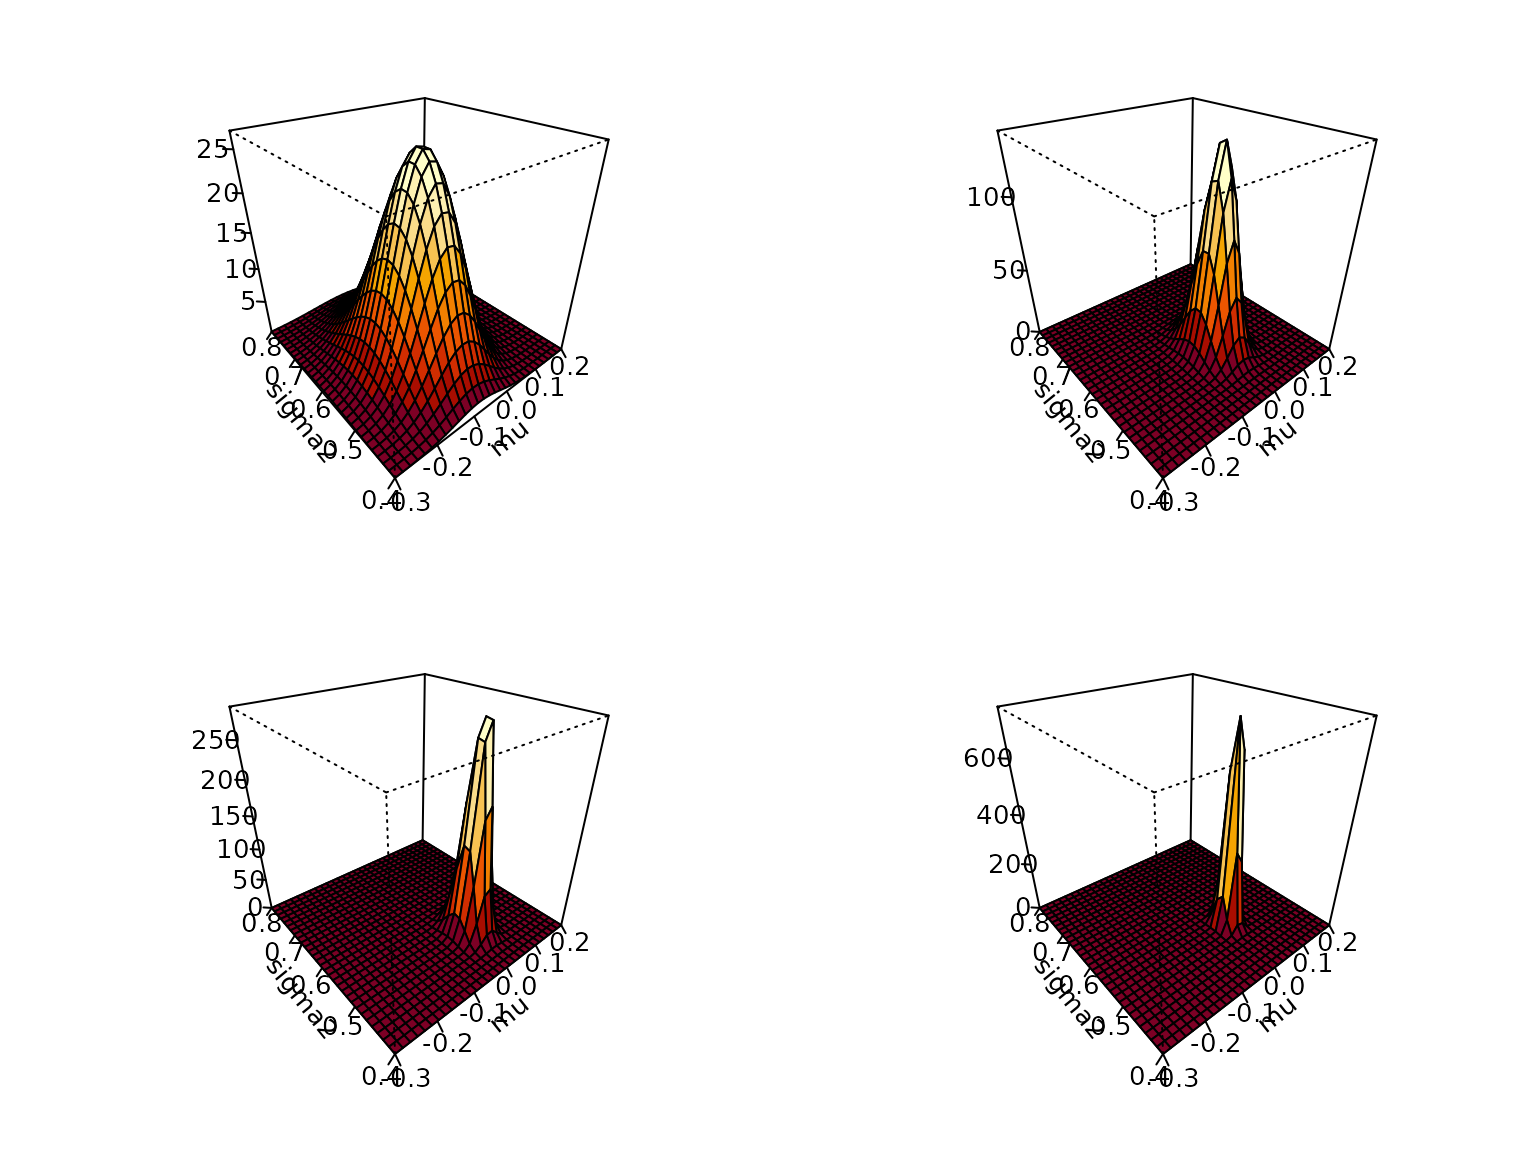
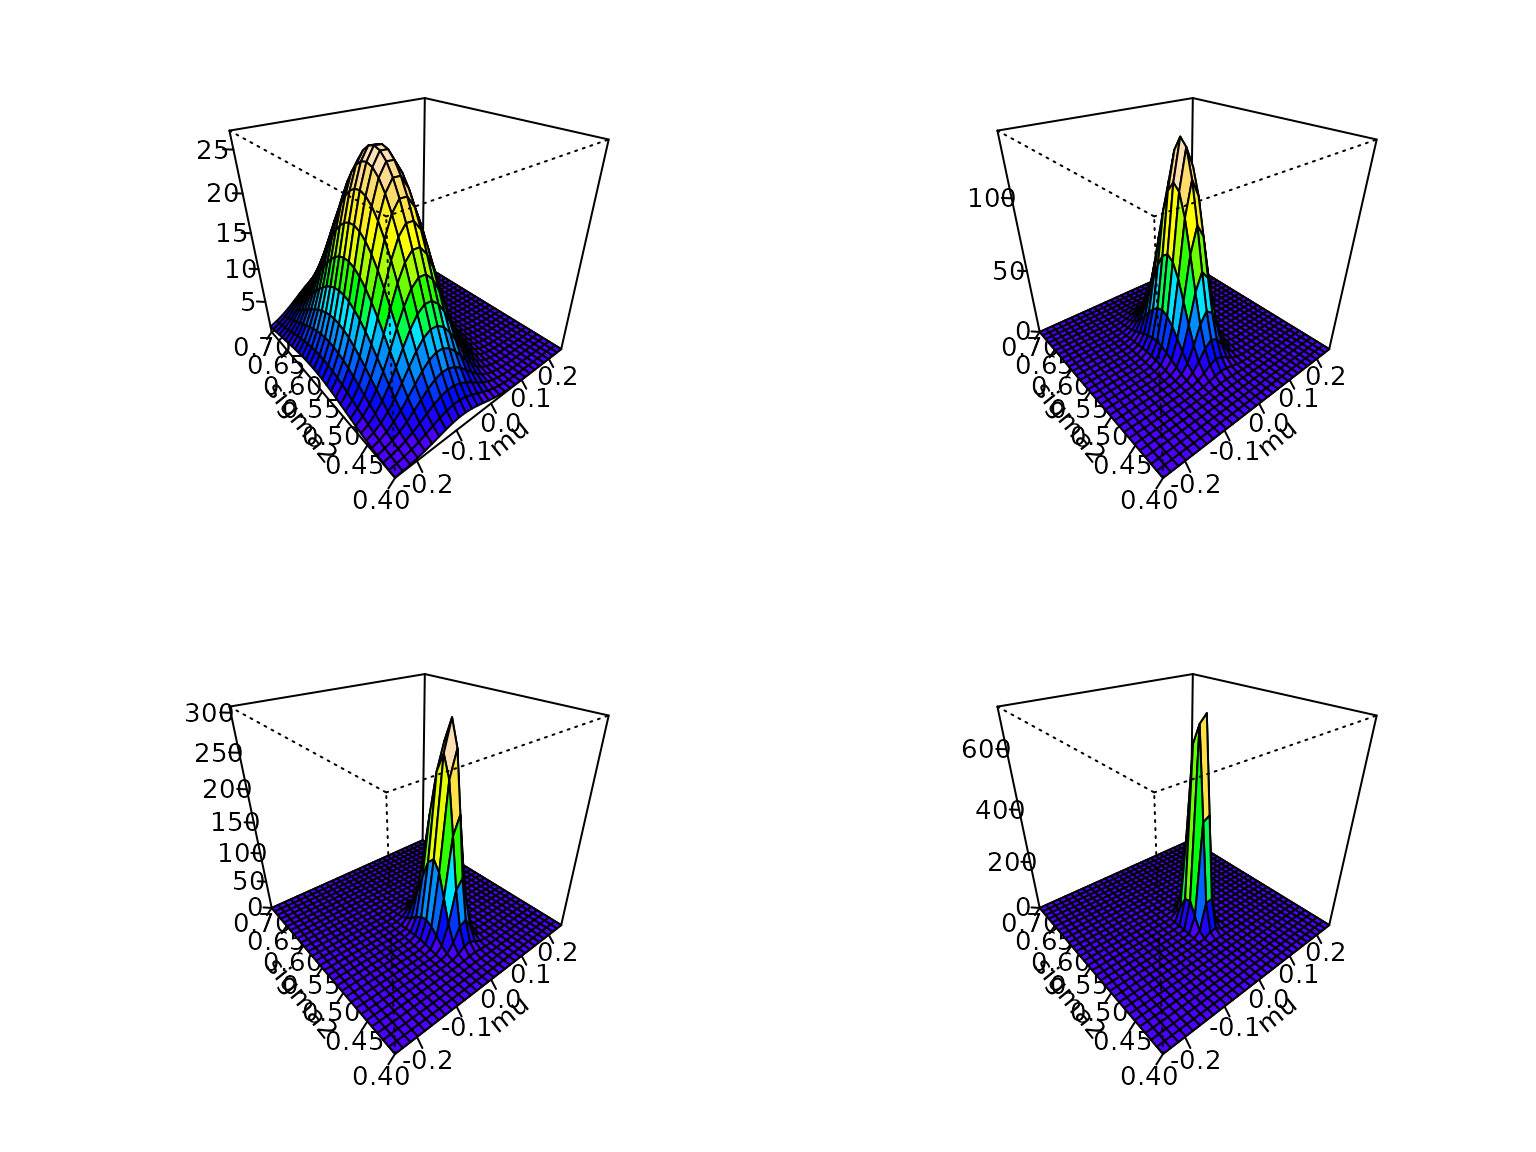
Deploying to gh-pages from @ gregorkastner/BayesianLearningCode@2bedb15969a2780b5f62fce35f535bbf19df8d22 🚀

diff --git a/articles/Chapter04.html b/articles/Chapter04.html
@@ -105,11 +105,11 @@ p(\mu, \sigma^2) \propto \frac{1}{\sigma^2},
 p(\mu,\sigma^2|\mathbf y) =
 f_N\left(\mu;\bar{y},\frac{\sigma^2}{N}\right)
 f_{\mathcal{G}^{-1}}\left(\sigma^2;\frac{N-1}{2},\frac{N s_y^2}{2}\right).
-</annotation></semantics></math> We can plot this (not that base R does
-not ship the density function of the inverse gamma, so we define it
-ourselves using the transformation law of densities). Note that in R,
-the Gaussian distribution is parametrized in terms of mean and standard
-deviation (not variance).</p>
+</annotation></semantics></math> We can now plot this. Note that base R
+does not ship the density function of the inverse gamma, so we define it
+ourselves using the transformation law of densities. Also note that in
+R, the Gaussian distribution is parameterized in terms of mean and
+standard deviation (not mean and variance).</p>
 <div class="sourceCode" id="cb2"><pre class="downlit sourceCode r">
 <code class="sourceCode R"><span><span class="va">dinvgamma</span> <span class="op">&lt;-</span> <span class="kw">function</span><span class="op">(</span><span class="va">x</span>, <span class="va">a</span>, <span class="va">b</span>, <span class="va">log</span> <span class="op">=</span> <span class="cn">FALSE</span><span class="op">)</span> <span class="op">{</span></span>
 <span>  <span class="va">logdens</span> <span class="op">&lt;-</span> <span class="fu"><a href="https://rdrr.io/r/stats/GammaDist.html" class="external-link">dgamma</a></span><span class="op">(</span><span class="fl">1</span><span class="op">/</span><span class="va">x</span>, <span class="va">a</span>, <span class="va">b</span>, log <span class="op">=</span> <span class="cn">TRUE</span><span class="op">)</span> <span class="op">-</span> <span class="fl">2</span> <span class="op">*</span> <span class="fu"><a href="https://rdrr.io/r/base/Log.html" class="external-link">log</a></span><span class="op">(</span><span class="va">x</span><span class="op">)</span></span>
@@ -120,12 +120,12 @@ deviation (not variance).</p>
 <span>  <span class="fu"><a href="https://rdrr.io/r/stats/Normal.html" class="external-link">dnorm</a></span><span class="op">(</span><span class="va">mu</span>, <span class="va">ybar</span>, <span class="fu"><a href="https://rdrr.io/r/base/MathFun.html" class="external-link">sqrt</a></span><span class="op">(</span><span class="va">sigma2</span> <span class="op">/</span> <span class="va">N</span><span class="op">)</span><span class="op">)</span> <span class="op">*</span> <span class="fu">dinvgamma</span><span class="op">(</span><span class="va">sigma2</span>, <span class="op">(</span><span class="va">N</span> <span class="op">-</span> <span class="fl">1</span><span class="op">)</span> <span class="op">/</span> <span class="fl">2</span>, <span class="va">N</span> <span class="op">*</span> <span class="va">s2</span> <span class="op">/</span> <span class="fl">2</span><span class="op">)</span></span>
 <span><span class="op">}</span></span>
 <span></span>
-<span><span class="va">mu</span> <span class="op">&lt;-</span> <span class="fu"><a href="https://rdrr.io/r/base/seq.html" class="external-link">seq</a></span><span class="op">(</span><span class="op">-</span><span class="fl">.3</span>, <span class="fl">.2</span>, length.out <span class="op">=</span> <span class="fl">30</span><span class="op">)</span></span>
-<span><span class="va">sigma2</span> <span class="op">&lt;-</span> <span class="fu"><a href="https://rdrr.io/r/base/seq.html" class="external-link">seq</a></span><span class="op">(</span><span class="fl">.4</span>, <span class="fl">.8</span>, length.out <span class="op">=</span> <span class="fl">30</span><span class="op">)</span></span>
+<span><span class="va">mu</span> <span class="op">&lt;-</span> <span class="fu"><a href="https://rdrr.io/r/base/seq.html" class="external-link">seq</a></span><span class="op">(</span><span class="op">-</span><span class="fl">.25</span>, <span class="fl">.25</span>, length.out <span class="op">=</span> <span class="fl">30</span><span class="op">)</span></span>
+<span><span class="va">sigma2</span> <span class="op">&lt;-</span> <span class="fu"><a href="https://rdrr.io/r/base/seq.html" class="external-link">seq</a></span><span class="op">(</span><span class="fl">.4</span>, <span class="fl">.7</span>, length.out <span class="op">=</span> <span class="fl">30</span><span class="op">)</span></span>
 <span></span>
 <span><span class="co"># Generate the desired number of colors from a palette</span></span>
-<span><span class="va">nbcol</span> <span class="op">&lt;-</span> <span class="fl">10</span></span>
-<span><span class="va">color</span> <span class="op">&lt;-</span> <span class="fu"><a href="https://rdrr.io/r/grDevices/palettes.html" class="external-link">hcl.colors</a></span><span class="op">(</span><span class="fl">10</span>, <span class="st">"YlOrRd"</span><span class="op">)</span></span>
+<span><span class="va">nbcol</span> <span class="op">&lt;-</span> <span class="fl">20</span></span>
+<span><span class="va">color</span> <span class="op">&lt;-</span> <span class="fu"><a href="https://rdrr.io/r/grDevices/palettes.html" class="external-link">topo.colors</a></span><span class="op">(</span><span class="va">nbcol</span><span class="op">)</span></span>
 <span></span>
 <span><span class="kw">for</span> <span class="op">(</span><span class="va">n</span> <span class="kw">in</span> <span class="fu"><a href="https://rdrr.io/r/base/c.html" class="external-link">c</a></span><span class="op">(</span><span class="fl">100</span>, <span class="fl">500</span>, <span class="fl">1000</span>, <span class="fu"><a href="https://rdrr.io/r/base/length.html" class="external-link">length</a></span><span class="op">(</span><span class="va">y</span><span class="op">)</span><span class="op">)</span><span class="op">)</span> <span class="op">{</span></span>
 <span>  <span class="va">ytmp</span> <span class="op">&lt;-</span> <span class="fu"><a href="https://rdrr.io/r/utils/head.html" class="external-link">head</a></span><span class="op">(</span><span class="va">y</span>, <span class="va">n</span><span class="op">)</span></span>
